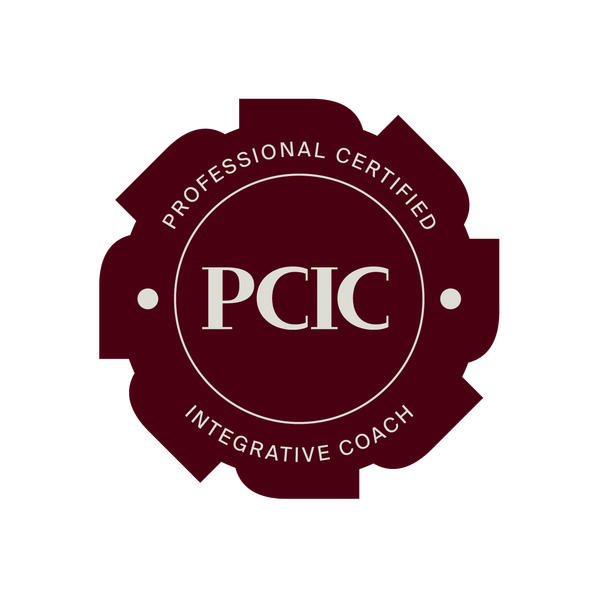
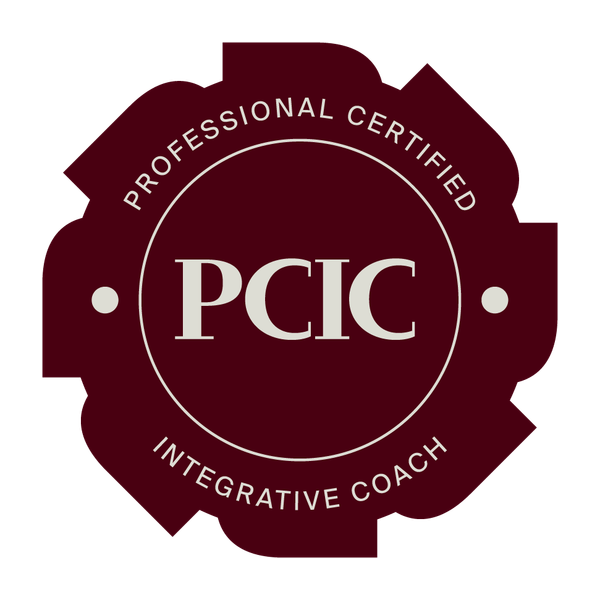
Idle animations on courses, book and services; bigger badges
- Course cards: badges float (offset per card), photo card slowly zooms,
  upcoming runs get a pulsing "Štart <date>" chip
- Book: slow zoom on the promo photo, periodic shine on the buy button
- "S kým pracujeme" icons bob gently
- Hero accreditation badges roughly doubled in size; PCIC badge trimmed so
  it matches the ICF badges visually
- All idle motion is motion-safe (off with prefers-reduced-motion)

diff --git a/src/styles/global.css b/src/styles/global.css
@@ -30,6 +30,7 @@
   --animate-fade-in: fade-in 1.2s var(--ease-soft) both;
   --animate-float: float 6s ease-in-out infinite;
   --animate-drift: drift 18s ease-in-out infinite alternate;
+  --animate-kenburns: kenburns 16s ease-in-out infinite alternate;
 
   @keyframes fade-up {
     from {
@@ -46,6 +47,11 @@
   @keyframes float {
     50% {
       transform: translateY(-10px);
+    }
+  }
+  @keyframes kenburns {
+    to {
+      transform: scale(1.1) translate(-2%, -1.5%);
     }
   }
   @keyframes drift {
@@ -147,4 +153,35 @@
   transition:
     opacity 0.8s var(--ease-soft) var(--reveal-delay, 0ms),
     transform 0.8s var(--ease-soft) var(--reveal-delay, 0ms);
+}
+
+/* Periodic light sweep across a call-to-action (e.g. the book's buy button). */
+.shine {
+  position: relative;
+  overflow: hidden;
+  --shine-color: rgb(255 255 255 / 0.45);
+}
+.btn-light.shine {
+  --shine-color: rgb(74 15 28 / 0.14);
+}
+@media (prefers-reduced-motion: no-preference) {
+  .shine::after {
+    content: "";
+    position: absolute;
+    inset: 0;
+    pointer-events: none;
+    background: linear-gradient(110deg, transparent 35%, var(--shine-color) 50%, transparent 65%);
+    transform: translateX(-120%);
+    animation: shine 5s ease-in-out infinite;
+  }
+}
+@keyframes shine {
+  0%,
+  60% {
+    transform: translateX(-120%);
+  }
+  90%,
+  100% {
+    transform: translateX(120%);
+  }
 }
